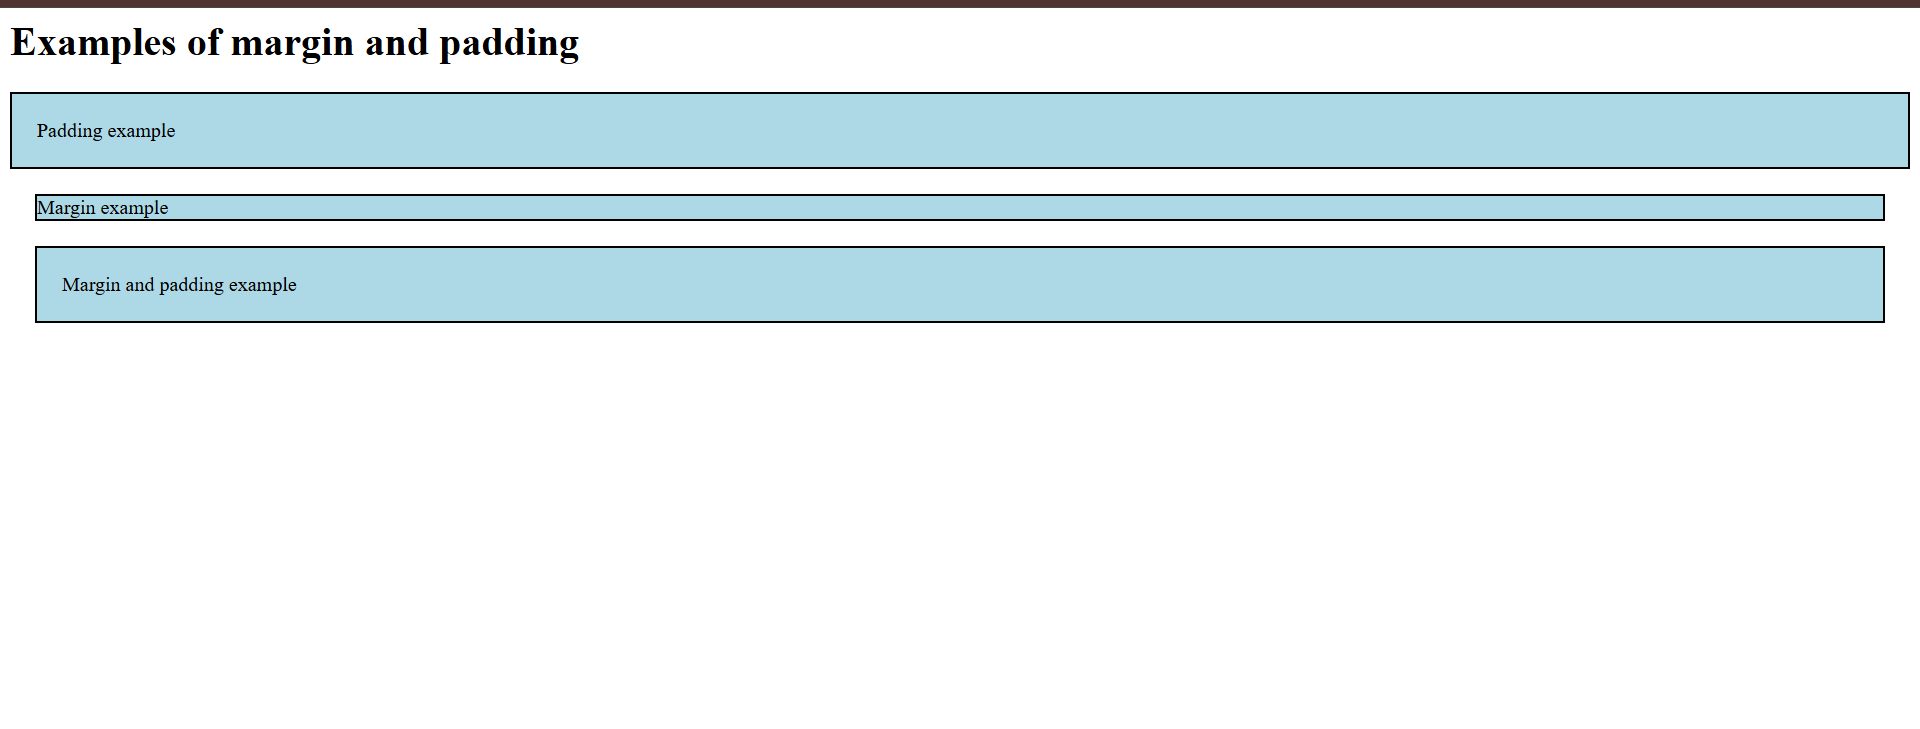
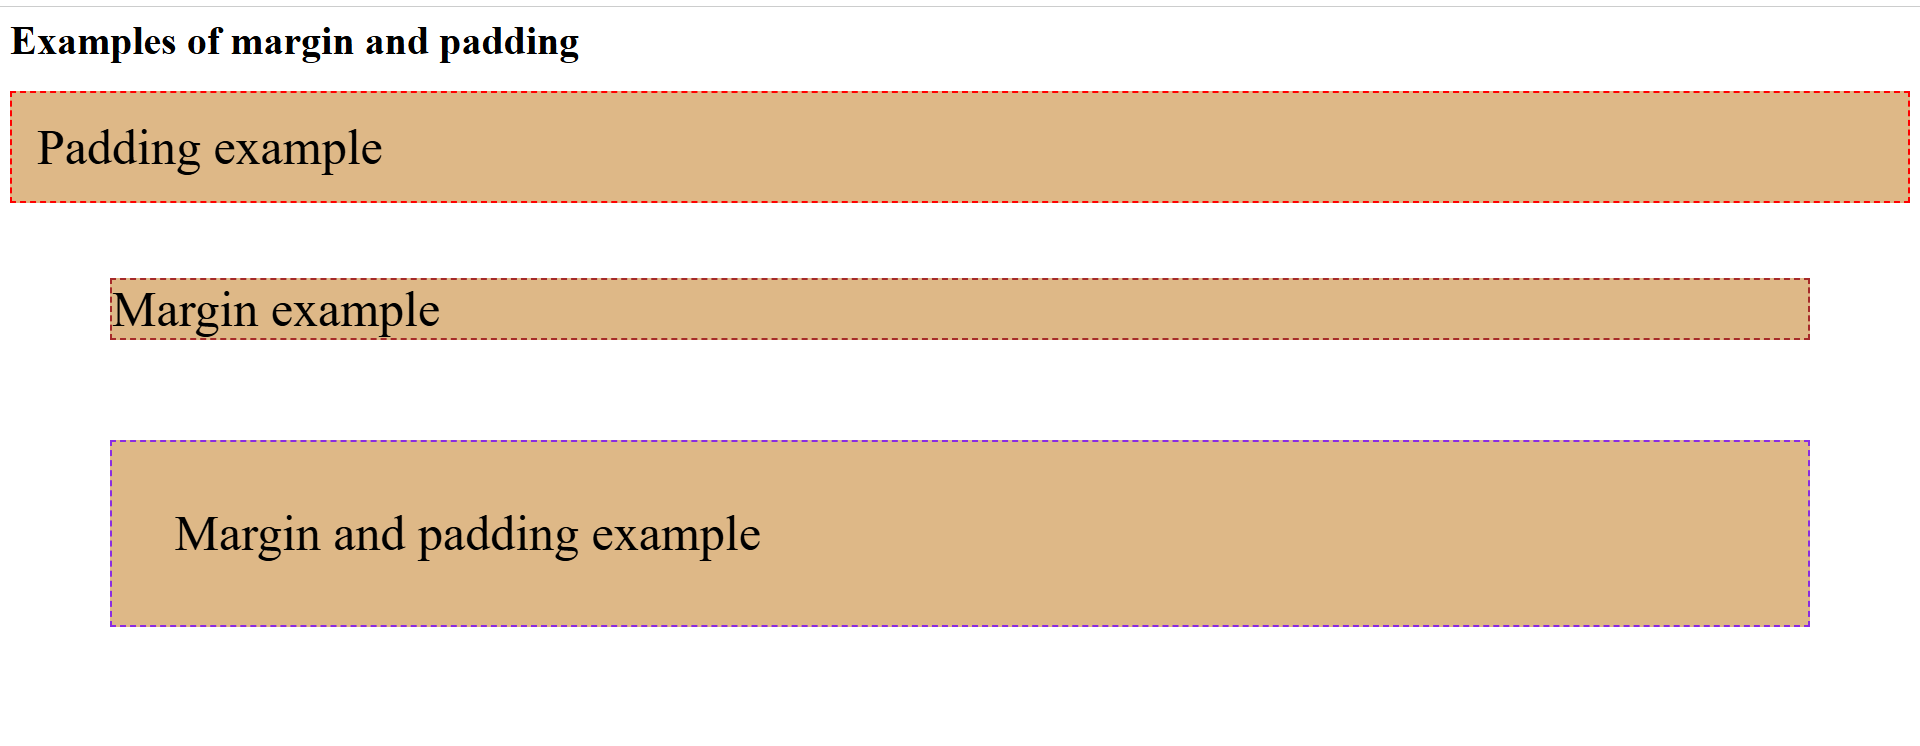
added file

diff --git a/pramada_phase2/card.css b/pramada_phase2/card.css
@@ -1,20 +1,22 @@
+
 .card {
-                width:300px;
-                border:1px solid grey;
-                padding:20px;
-                margin:20px;
-                border-radius:10px;
-            }
+        width: 500px;
+        font-size: 1.5rem;
+         border:10px double red;
+         padding:20px;
+          
+    margin: 50px auto;
+          border-radius:10px;
+          background-color: pink;
+ }
 
-            .card img {
-                width:100%;
-                border-radius:10px;
-            }
+.main {
+    color: black;
+    margin: 50px auto;
+    font-size: 2rem;
+}
+            
 
-            .card h2 {
-                margin-top:10px;
-            }
+            
 
-            body {
-                font-family:Arial,sans-serif;
-            }
+            

diff --git a/pramada_phase2/card.html b/pramada_phase2/card.html
@@ -2,13 +2,16 @@
 <html>
 <head>
         <title>card design</title>
-        <link rel="stylesheet"href="card.css">
+        <link rel="stylesheet" href="card.css">
 </head>
 <body>
-        <div class="card">
-            <img src="https://via.placeholder.com/300">
-            <h2>My card</h2>
-            <p>This is a simple card using box model spacing.</p>
+ <div class="card">
+
+
+           <div class="main"> <h2>My card</h2></div>
+        
+        
+            <p>Lorem ipsum dolor sit amet consectetur adipisicing elit. <br> Provident dicta, cupiditate culpa, possimus fuga labore quis <br> fugiat voluptatibus recusandae amet eius repellat <br> non! Saepe cum, excepturi sunt aut quaerat sit.</p>
         </div>
 </body>
 </html>
